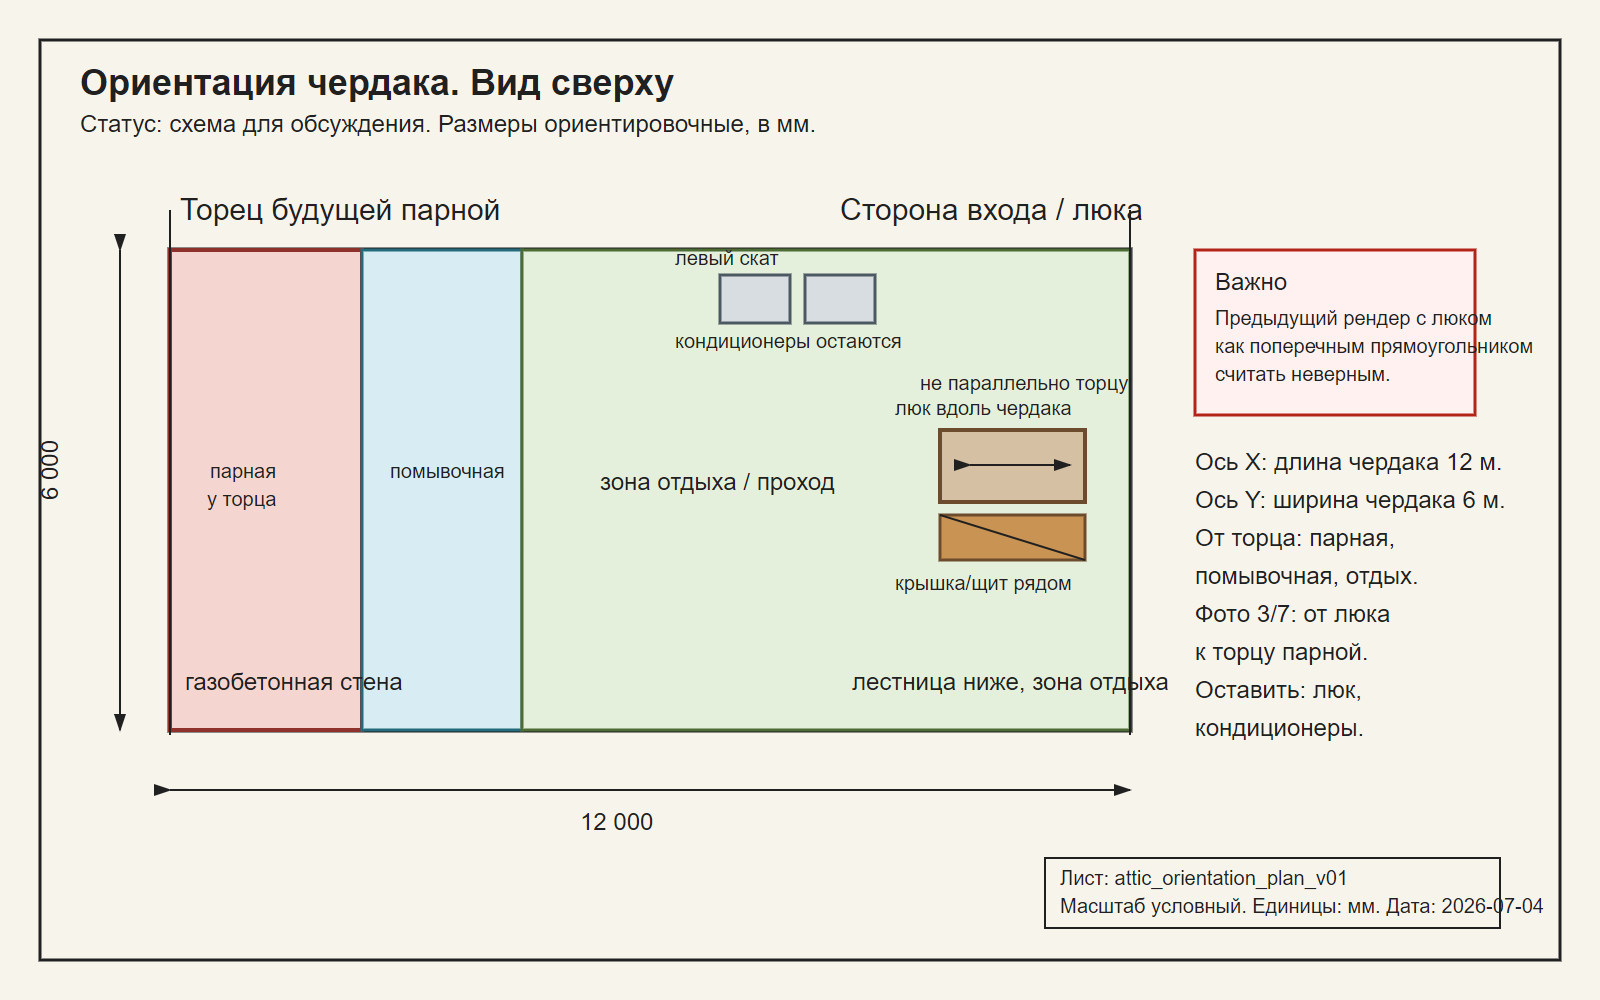
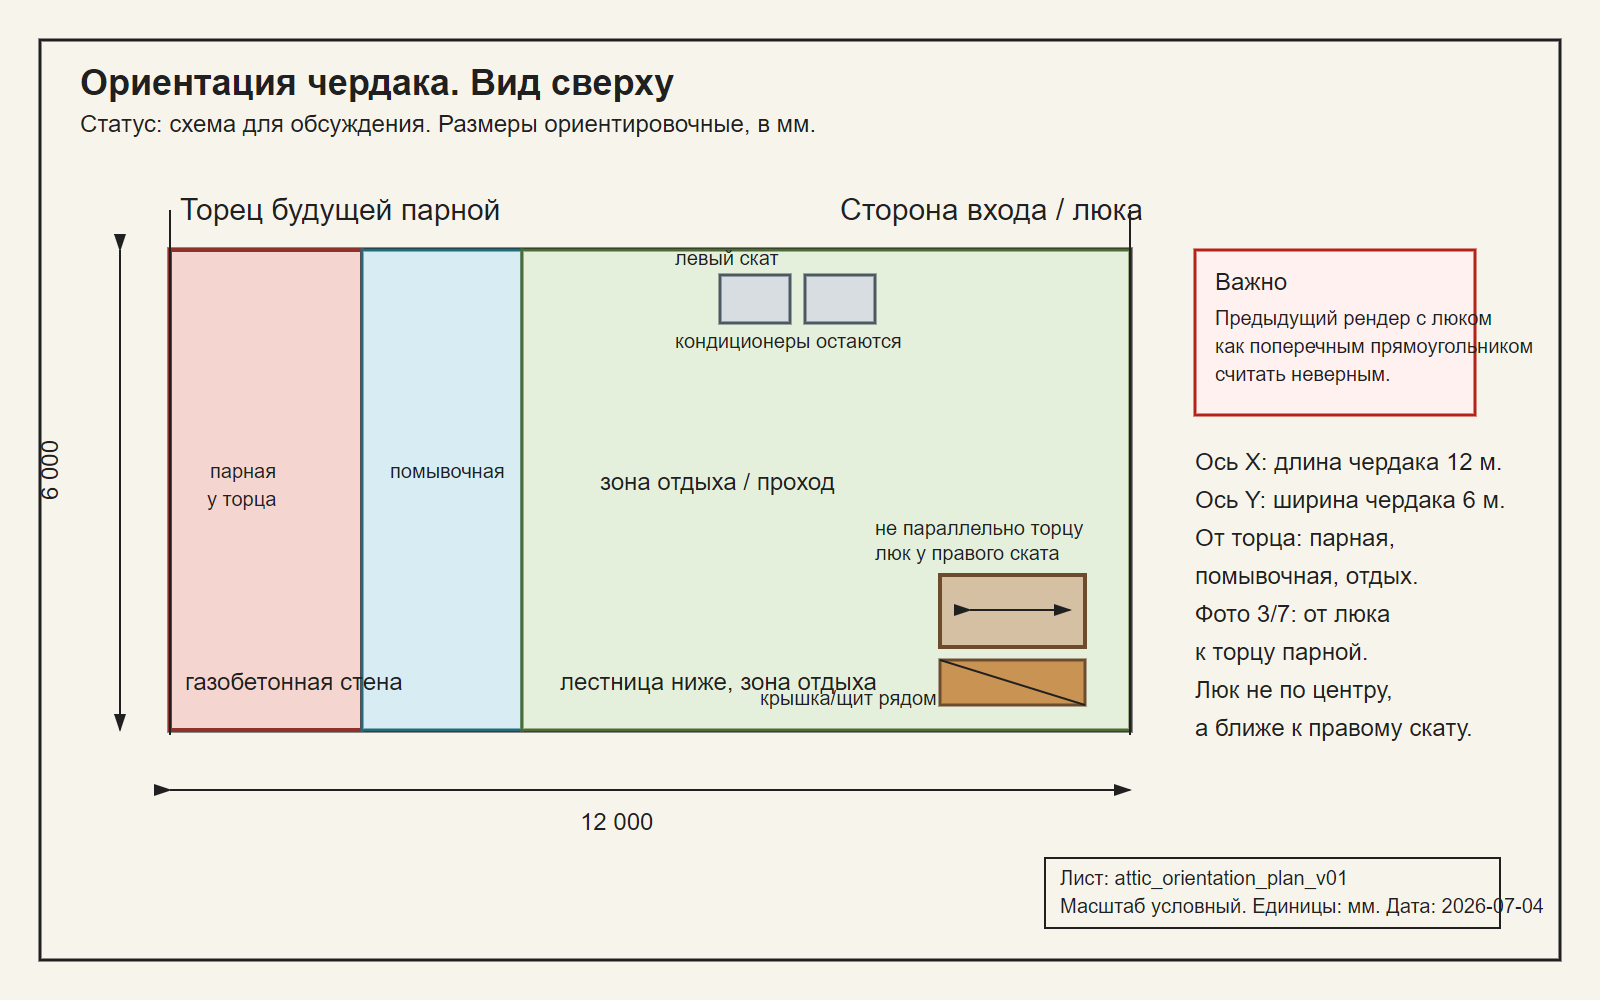
Correct hatch position in floor stage

Changed region(s): [[0.3438, 0.372, 0.9062, 0.744]]

diff --git a/registry/sauna_project_registry.md b/registry/sauna_project_registry.md
@@ -26,6 +26,7 @@
   - газобетонный торец на фото `attic_orientation_03_from_hatch_to_steam_gable.png` и `attic_orientation_07_center_to_steam_gable.png` — сторона будущей парной;
   - люк/лестница находятся ближе к противоположному концу чердака, в будущей зоне входа/отдыха;
   - проем люка вытянут перпендикулярно торцевой газобетонной стене, то есть вдоль длины чердака;
+  - люк расположен не по центру ширины чердака, а ближе к правому скату, если смотреть от входной зоны в сторону газобетонного торца будущей парной;
   - поднятый щит/крышка около проема люка является важным ориентиром и должен оставаться в кадре этапа 0;
   - блоки кондиционеров под левым скатом остаются и учитываются как постоянное оборудование.
 
@@ -103,9 +104,10 @@
 - Этап 1, пол и силовой настил:
   - `drawings/floor_stage_01_frame_and_deck_v01.svg`
   - `drawings/floor_stage_01_frame_and_deck_v01.png`
-  - `renders/photoreal/floor_stage_01_frame_and_deck_visual_v01.png`
+  - `renders/photoreal/floor_stage_01_frame_and_deck_visual_v02.png`
   - Смысл этапа: проверить балки, добавить перемычки/блокинг, сделать сплошной распределяющий настил, отдельно подготовить мокрую зону и площадку под печь.
   - Принцип: легкая конструкция без тяжелой стяжки; печь и мокрая зона должны распределять нагрузку на несколько балок.
+  - Визуализацию v01 считать неверной по положению люка: люк был слишком близко к центру. Рабочая версия — v02.
 - Этап 0 нужно перерисовать заново:
   - пустой чердак после уборки;
   - оставить реальный люк/проем в полу с поднятой крышкой;